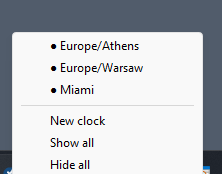
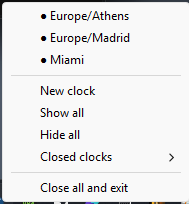
Refresh the tray look and fix hanging on Close all and exit.
Switch to the coral clock glyph, update tray and face-menu screenshots in the README, and stop the tray/session-lock deadlock when the last process quits.

diff --git a/src/icon.rs b/src/icon.rs
@@ -1,45 +1,70 @@
 /// A small clock glyph used for the window and the tray.
+///
+/// Coral dial with cream hands and hour ticks (tray-icon proposal D).
 pub fn clock_icon_rgba(size: u32) -> Vec<u8> {
     let mut rgba = vec![0_u8; (size * size * 4) as usize];
     let center = (size as f32 - 1.0) / 2.0;
-    let radius = center * 0.86;
+    let radius = center * 0.92;
+    let coral = [224, 112, 80];
+    let cream = [245, 232, 214];
+
     for y in 0..size {
         for x in 0..size {
             let dx = x as f32 - center;
             let dy = y as f32 - center;
             let distance = (dx * dx + dy * dy).sqrt();
             if distance <= radius {
-                put(&mut rgba, size, x, y, [24, 78, 130]);
+                put(&mut rgba, size, x, y, coral);
             }
         }
     }
+
+    // Thin cream ring just inside the rim.
+    let ring_outer = radius * 0.90;
+    let ring_inner = radius * 0.84;
+    for y in 0..size {
+        for x in 0..size {
+            let dx = x as f32 - center;
+            let dy = y as f32 - center;
+            let distance = (dx * dx + dy * dy).sqrt();
+            if distance <= ring_outer && distance >= ring_inner {
+                put(&mut rgba, size, x, y, cream);
+            }
+        }
+    }
+
+    // Twelve short cream hour marks.
+    let tick_outer = radius * 0.78;
+    let tick_inner = radius * 0.68;
+    for hour in 0..12 {
+        let degrees = hour as f32 * 30.0;
+        let outer = point_at(center, tick_outer, degrees);
+        let inner = point_at(center, tick_inner, degrees);
+        stamp_line(&mut rgba, size, inner.0, inner.1, outer.0, outer.1, cream, 1);
+    }
+
+    // ~10:10 — short thick hour hand, longer thinner minute hand.
     let hour = point_at(center, radius * 0.42, -50.0);
-    let minute = point_at(center, radius * 0.68, 35.0);
+    let minute = point_at(center, radius * 0.62, 35.0);
     stamp_line(
-        &mut rgba,
-        size,
-        center,
-        center,
-        hour.0,
-        hour.1,
-        [245, 247, 250],
+        &mut rgba, size, center, center, hour.0, hour.1, cream, 2,
     );
     stamp_line(
-        &mut rgba,
-        size,
-        center,
-        center,
-        minute.0,
-        minute.1,
-        [245, 247, 250],
+        &mut rgba, size, center, center, minute.0, minute.1, cream, 1,
     );
-    put(
-        &mut rgba,
-        size,
-        center as u32,
-        center as u32,
-        [245, 247, 250],
-    );
+
+    let hub = (size / 32).max(1);
+    for dy in -(hub as i32)..=(hub as i32) {
+        for dx in -(hub as i32)..=(hub as i32) {
+            if dx * dx + dy * dy <= (hub * hub) as i32 {
+                let px = center as i32 + dx;
+                let py = center as i32 + dy;
+                if px >= 0 && py >= 0 {
+                    put(&mut rgba, size, px as u32, py as u32, cream);
+                }
+            }
+        }
+    }
     rgba
 }
 
@@ -51,14 +76,26 @@ fn point_at(center: f32, length: f32, degrees_from_12: f32) -> (f32, f32) {
     )
 }
 
-fn stamp_line(rgba: &mut [u8], size: u32, x0: f32, y0: f32, x1: f32, y1: f32, color: [u8; 3]) {
+fn stamp_line(
+    rgba: &mut [u8],
+    size: u32,
+    x0: f32,
+    y0: f32,
+    x1: f32,
+    y1: f32,
+    color: [u8; 3],
+    thickness: i32,
+) {
     let steps = size * 2;
     for step in 0..=steps {
         let t = step as f32 / steps as f32;
         let x = x0 + (x1 - x0) * t;
         let y = y0 + (y1 - y0) * t;
-        for dy in -1..=1 {
-            for dx in -1..=1 {
+        for dy in -thickness..=thickness {
+            for dx in -thickness..=thickness {
+                if dx * dx + dy * dy > thickness * thickness {
+                    continue;
+                }
                 let px = x.round() as i32 + dx;
                 let py = y.round() as i32 + dy;
                 if px >= 0 && py >= 0 && (px as u32) < size && (py as u32) < size {

diff --git a/src/store.rs b/src/store.rs
@@ -11,7 +11,7 @@ use serde::{Deserialize, Serialize};
 use windows::core::w;
 use windows::Win32::Foundation::{CloseHandle, WAIT_OBJECT_0};
 use windows::Win32::System::Threading::{
-    CreateMutexW, ReleaseMutex, WaitForSingleObject, INFINITE,
+    CreateMutexW, ReleaseMutex, WaitForSingleObject,
 };
 
 use crate::config::ClockConfig;
@@ -159,8 +159,12 @@ pub fn user_session_path() -> PathBuf {
 }
 
 fn with_session_lock<T>(body: impl FnOnce() -> Result<T, StoreError>) -> Result<T, StoreError> {
-    let mutex = unsafe { CreateMutexW(None, false, w!("Local\\ClocksSession")) }.map_err(|_| StoreError)?;
-    let status = unsafe { WaitForSingleObject(mutex, INFINITE) };
+    let mutex =
+        unsafe { CreateMutexW(None, false, w!("Local\\ClocksSession")) }.map_err(|_| StoreError)?;
+    // Bounded wait avoids a permanent hang if another process died mid-write or
+    // the tray thread and UI contended in the wrong order.
+    const LOCK_MS: u32 = 3_000;
+    let status = unsafe { WaitForSingleObject(mutex, LOCK_MS) };
     if status != WAIT_OBJECT_0 && status != windows::Win32::Foundation::WAIT_ABANDONED {
         let _ = unsafe { CloseHandle(mutex) };
         return Err(StoreError);

diff --git a/src/tray.rs b/src/tray.rs
@@ -117,6 +117,11 @@ fn tray_loop(language: Arc<AtomicU8>, shutdown: Receiver<()>) {
         while let Ok(event) = MenuEvent::receiver().try_recv() {
             handle_menu(&event.id.0);
         }
+        // Leave immediately after Close all: rebuilding the menu or touching the
+        // session file while WM_CLOSE is in flight can deadlock the last process.
+        if session_exit_requested() {
+            break;
+        }
         if owner {
             let clocks = enumerate_clocks();
             let closed = FileSessionStore::user()

diff --git a/src/app.rs b/src/app.rs
@@ -282,6 +282,9 @@ impl ClockApp {
             return;
         }
         self.session_written = true;
+        // Stop the tray thread before touching the session file. Otherwise the
+        // tray owner can hold Local\ClocksSession while we join it → hang on exit.
+        drop(self.tray.take());
         let store = FileSessionStore::user();
         if tray::session_exit_requested() {
             let _ = store.upsert_open(&self.config);

diff --git a/README.md b/README.md
@@ -50,6 +50,8 @@ Minimizing a clock hides it the same way. It does not sit on the taskbar. Close 
 
 Right-click the clock face.
 
+![Clock face menu with type, settings, new clock, and close all](docs/menu.png)
+
 - **Clock type** switches between **Digital** and **Analog**. The analog face still shows a small digital time under the dial. Switching face also resizes the window.
 - **Settings** opens the settings window beside that clock.
 - **New clock** starts another clock just above this one, with the same settings.
